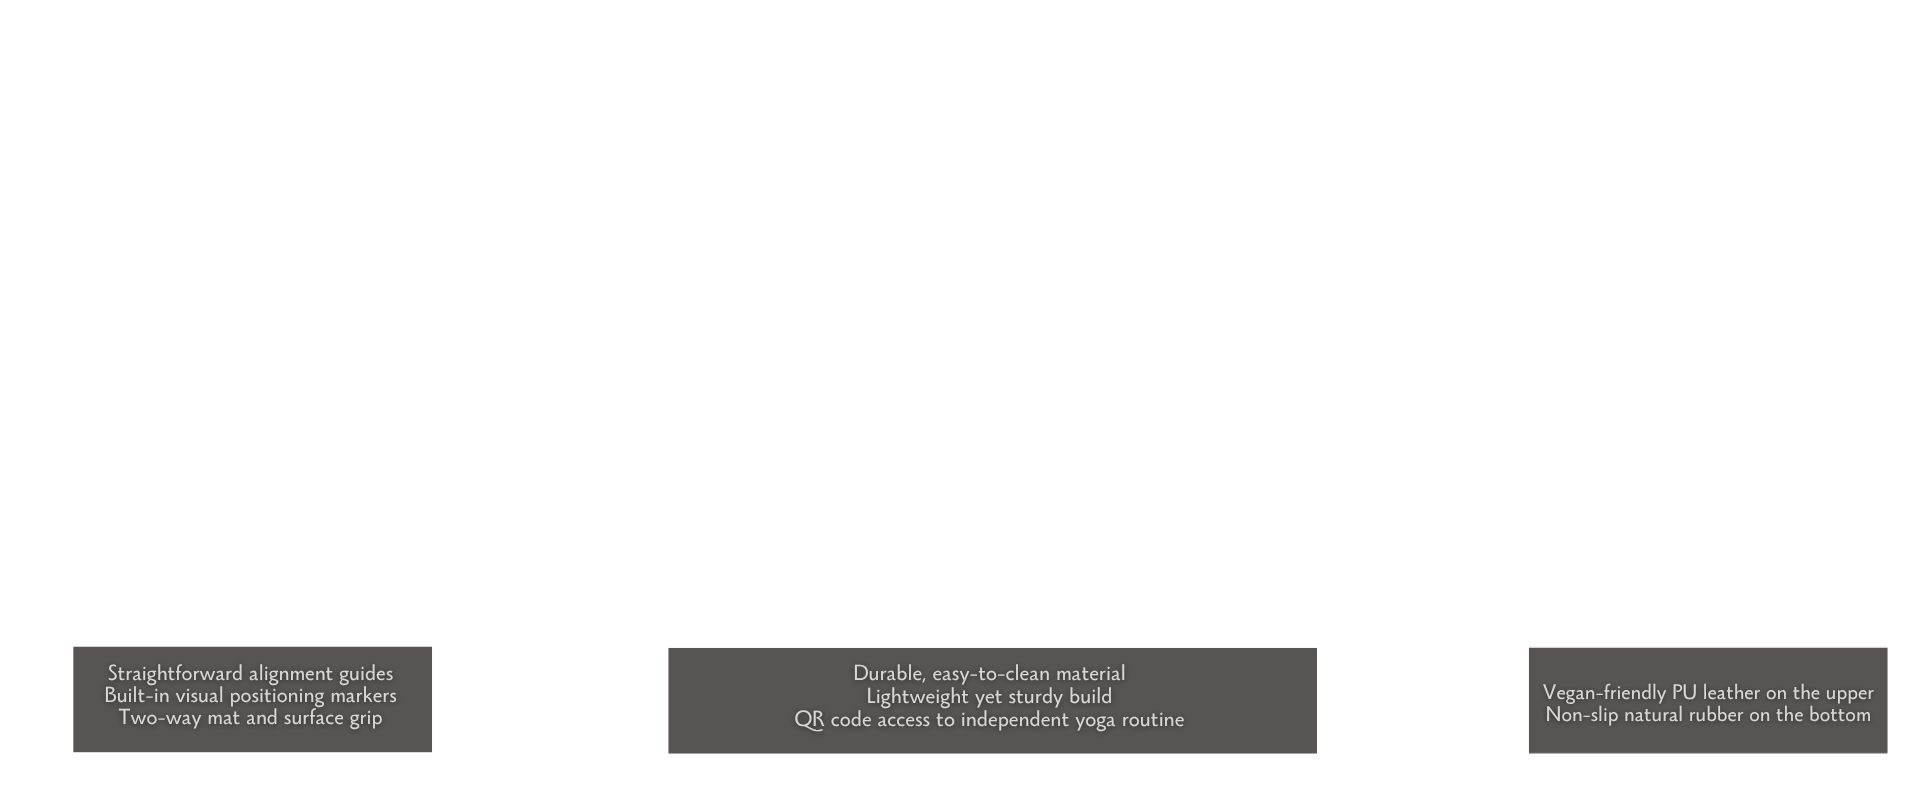
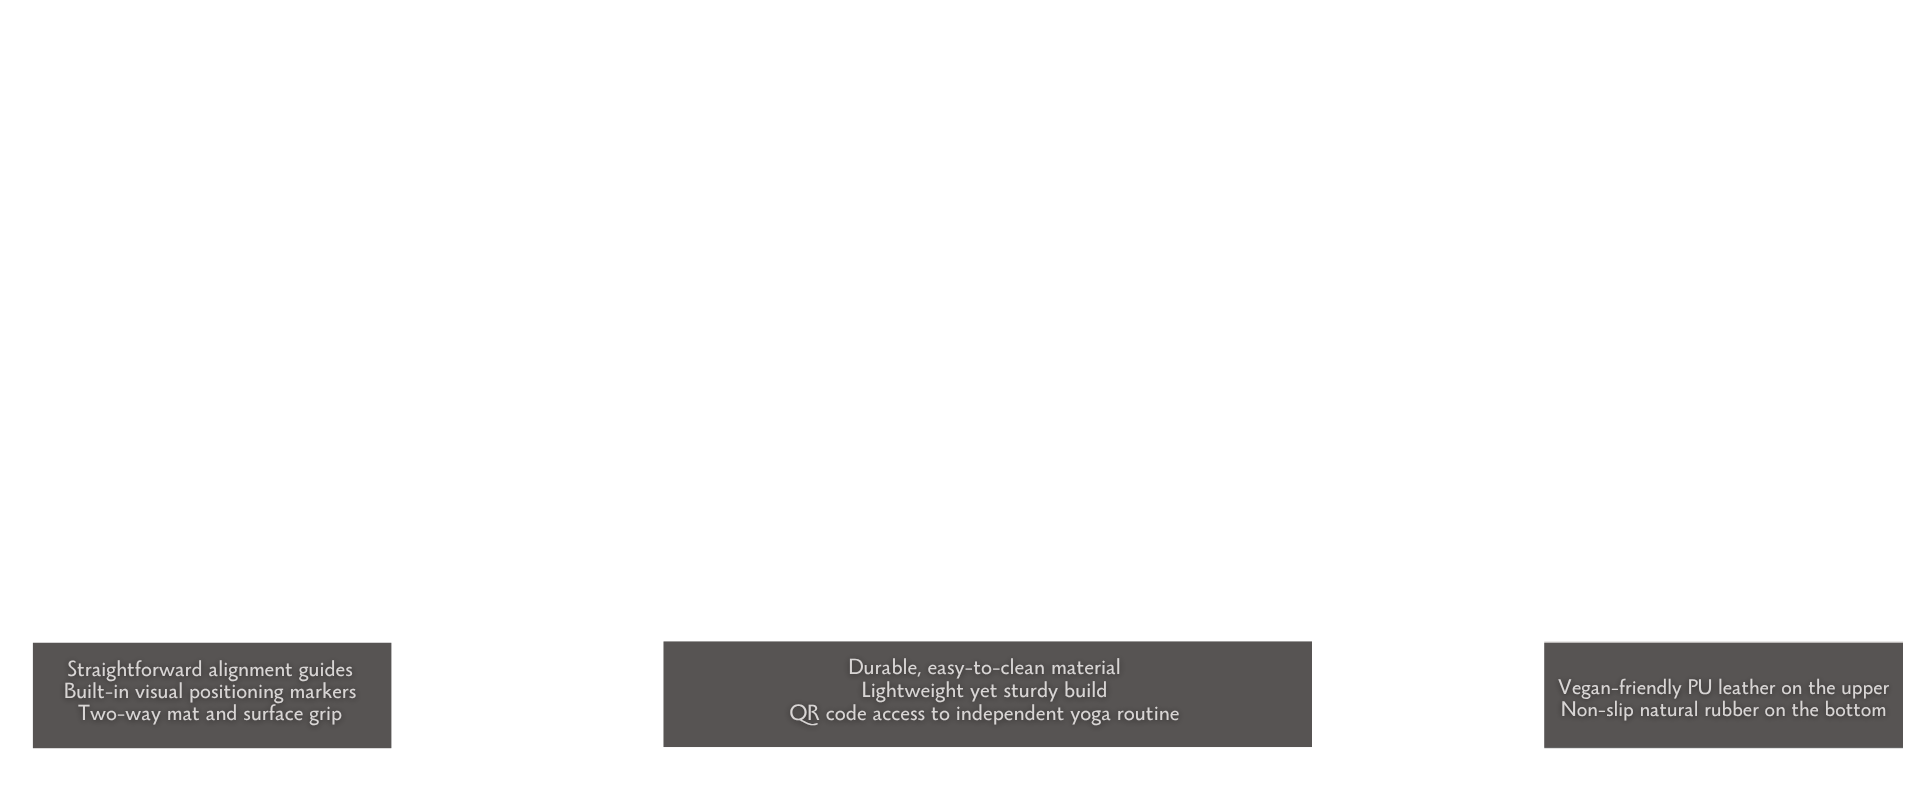
Changed forma facts img

diff --git a/style.css b/style.css
@@ -271,11 +271,11 @@ header.scrolled .fa-bag-shopping {
 }
 
 .shop-mat {
-    background-color: rgb(238, 229, 218);
+    background-color: #eee5da;
     display: flex;
     justify-content: center;   
     align-items: center;       
-    padding-top: 2rem;  
+    padding-top: 4rem;  
     padding-bottom: 6rem;
     padding-left: 6rem;    
 }
@@ -292,6 +292,9 @@ header.scrolled .fa-bag-shopping {
     height: auto;
     object-fit: cover;
     transition: opacity 0.5s ease, transform 0.5s ease;
+
+    min-height: 65vh; 
+    max-height: 500px;
 }
 
 .hover-forma {
@@ -307,15 +310,6 @@ header.scrolled .fa-bag-shopping {
     opacity: 1;
 
     transform: translateY(0);
-}
-
-
-/* Pin the hover image directly on top of the base image */
-.hover-forma {
-    position: absolute;
-    top: 0;
-    left: 0;
-    opacity: 0; /* Completely hidden by default */
 }
 
 #catalogue{
@@ -370,6 +364,7 @@ header.scrolled .fa-bag-shopping {
     object-fit: cover;
     display: block;
     transition: opacity 0.4s ease;
+    border-radius: 8px;
 }
 
 .mat-img-wrapper .hover-img{
@@ -578,10 +573,10 @@ header.scrolled .fa-bag-shopping {
 
 .who-forma h1{
     font-family: 'Poppins';
-    font-size: 4rem;
-    font-weight: 650;
+    font-size: 4.5rem;
+    font-weight: 600;
     color:white;
-    letter-spacing: -0.05rem;
+    letter-spacing: -0.15rem;
 }
 
 .slider-arrow:hover {
@@ -644,7 +639,7 @@ header.scrolled .fa-bag-shopping {
     max-width: 100%;     
     height: 450px;       
     object-fit: cover;   
-    border-radius: 6px;  
+    border-radius: 8px;  
 }
 
 .tag {
@@ -999,7 +994,7 @@ header.scrolled .fa-bag-shopping {
 }
 
 .our-story-content{
-    background-color:  rgb(255, 247, 237);
+    background-color:  #fff7ed;
 }
 .our-story-content h1{
     text-align: center;

diff --git a/index.html b/index.html
@@ -345,7 +345,7 @@
 
         <!-- COMMUNITY SECTION -->
         <section class="community-header">
-            <h2><i>Spotted in Forma</i></h2>
+            <h2><i>Spotted with Forma</i></h2>
             <h4>Behind the Movement</h4>
         </section>
 
